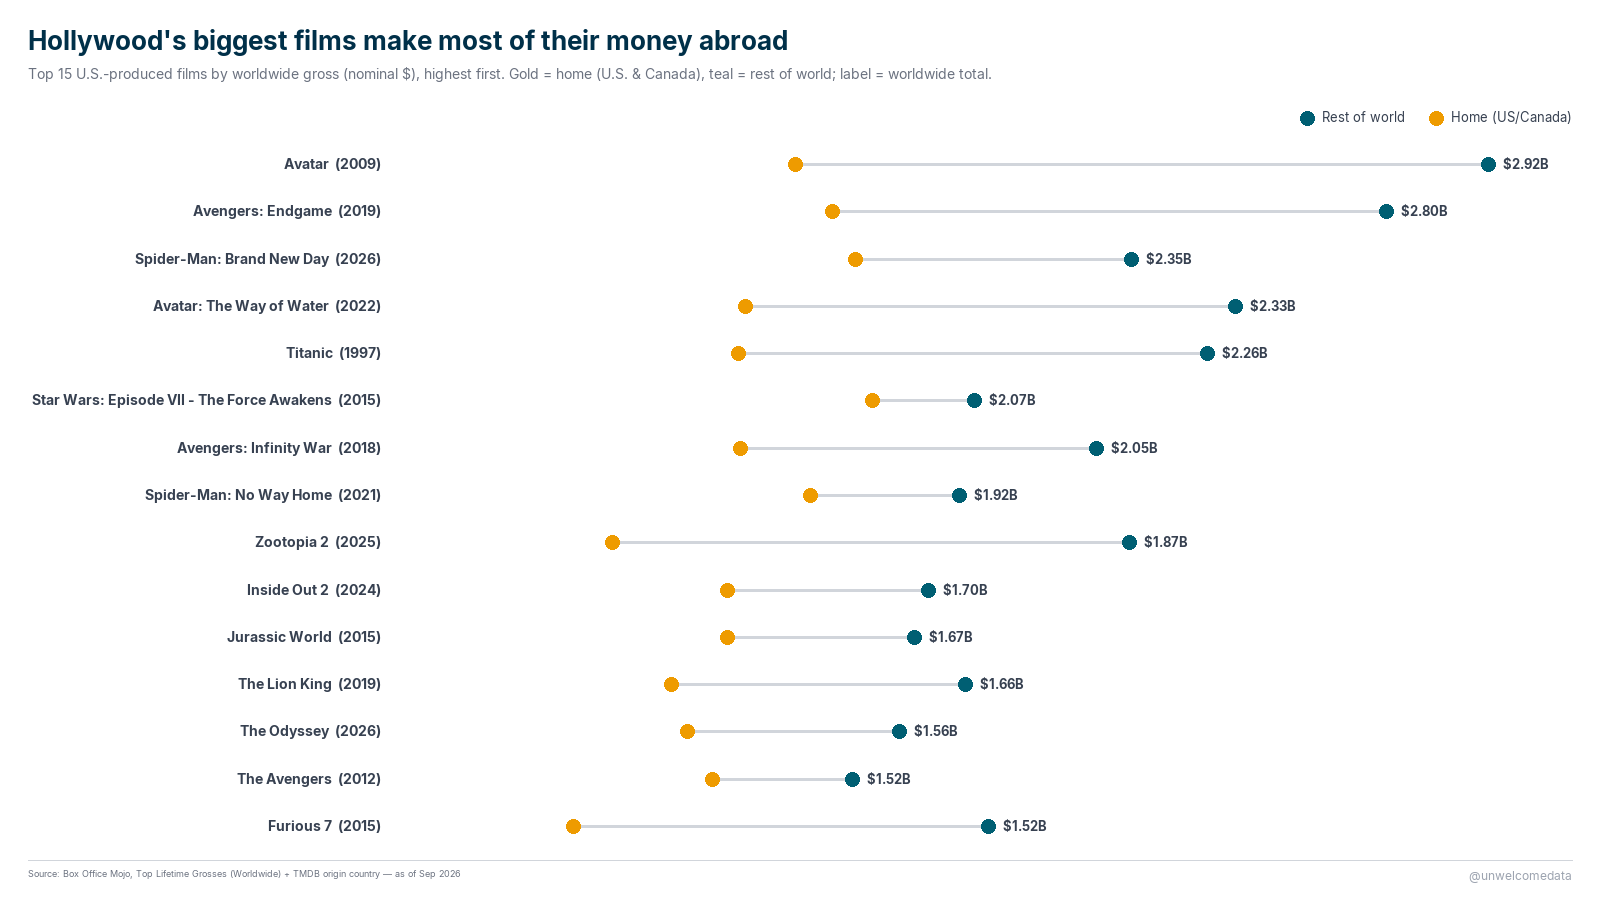
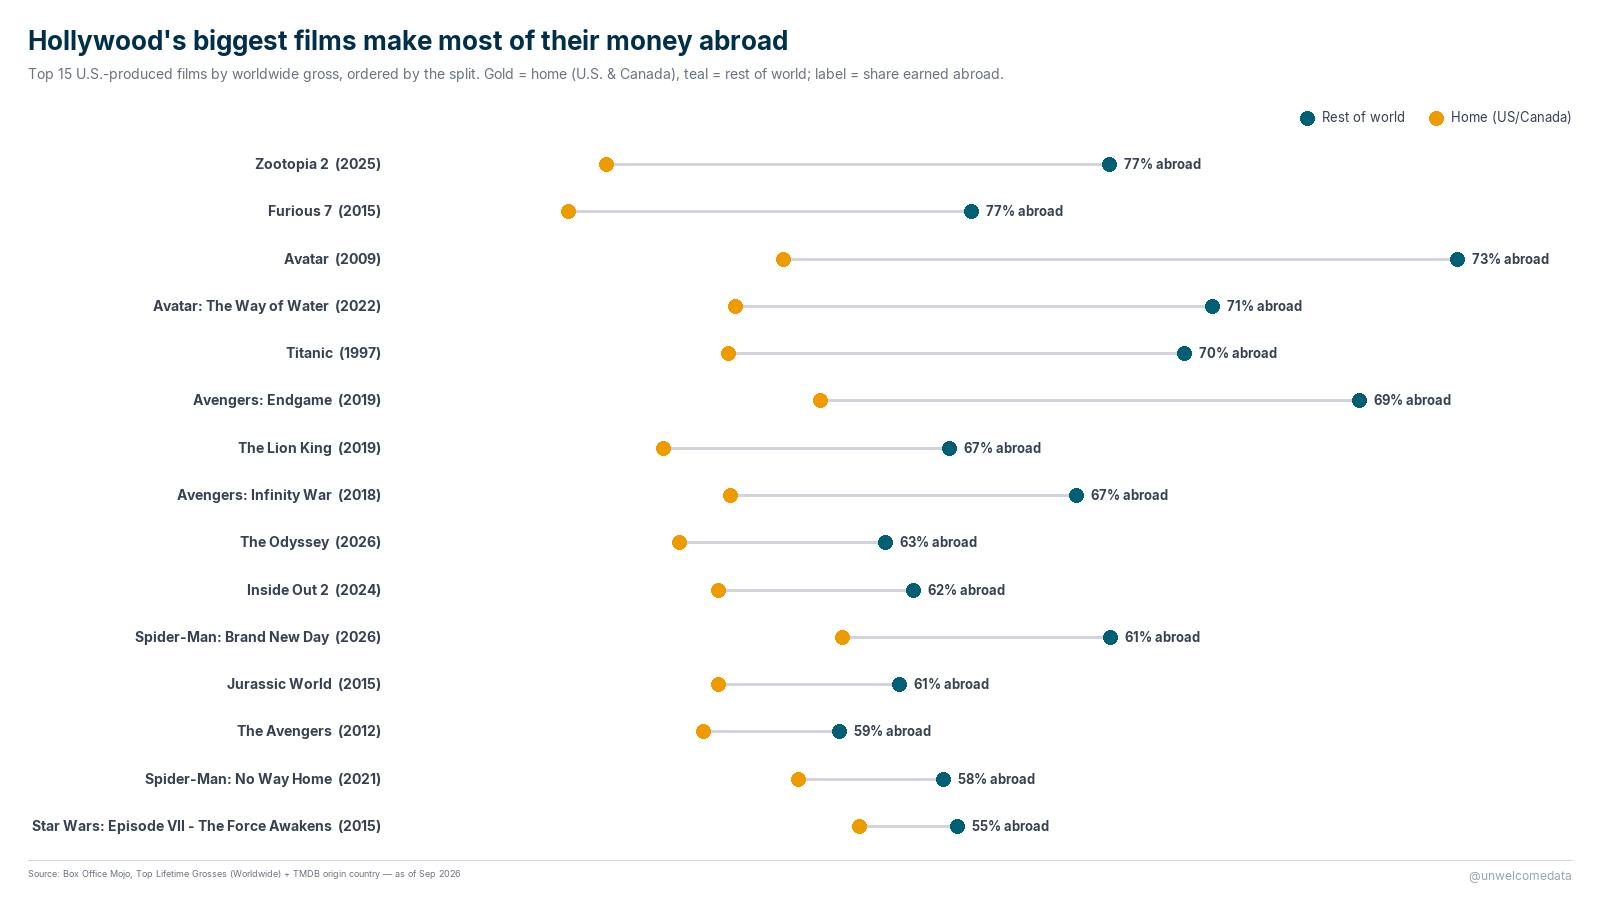
fix: order chart B by the split (share earned abroad), label the %
Chart B was sorted by worldwide gross (same as A), so it looked unsorted since the
split is the point. Now: top 15 US films by worldwide gross, ordered by foreign
share desc (Zootopia 2/Furious 7 at 77% abroad -> Force Awakens at 55%), with the
% abroad as the row label so the ordering is obvious.

diff --git a/scripts/_build_notebooks.py b/scripts/_build_notebooks.py
@@ -463,18 +463,22 @@ viz = [
        "international (rest-of-world) take dwarfs the domestic one. Gold = domestic,",
        "teal = international. Watch **Ne Zha 2** — a Chinese blockbuster with a huge",
        "international total and almost no domestic gross."),
-    code("# Restrict to US-made films so 'domestic' (US & Canada) = the film's home market.",
+    code("# US-made films (so 'home'=US/Canada is the home market); take the top 15 by",
+         "# worldwide gross, then ORDER BY the split (foreign share) so it reads sorted.",
          "ww = con.execute('''",
-         "    WITH us AS (SELECT title, release_year FROM films_genre WHERE is_us=TRUE)",
-         "    SELECT w.title, w.release_year, w.domestic_gross, w.foreign_gross, w.worldwide_gross",
-         "    FROM films_worldwide w JOIN us ON us.title=w.title AND us.release_year=w.release_year",
-         "    ORDER BY w.worldwide_gross DESC LIMIT 15''').df()",
+         "    WITH us AS (SELECT title, release_year FROM films_genre WHERE is_us=TRUE),",
+         "    top AS (SELECT w.title, w.release_year, w.domestic_gross, w.foreign_gross,",
+         "                   100.0*w.foreign_gross/w.worldwide_gross AS foreign_pct",
+         "            FROM films_worldwide w JOIN us ON us.title=w.title AND us.release_year=w.release_year",
+         "            ORDER BY w.worldwide_gross DESC LIMIT 15)",
+         "    SELECT * FROM top ORDER BY foreign_pct DESC''').df()",
          "ww['label'] = ww['title'] + '  (' + ww['release_year'].astype(str) + ')'",
+         "ww['split_label'] = ww['foreign_pct'].apply(lambda p: f'{p:.0f}% abroad')",
          "display(lollipop(",
          "    ww, category_col='label', value_col='foreign_gross', value2_col='domestic_gross',",
-         "    label_col='worldwide_gross', value_fmt=money,",
-         "    title='Hollywood films: home (US/Canada) vs abroad (top 15)',",
-         "    subtitle='US-made films only. Gold = home (US & Canada), teal = rest of world; label = worldwide total.',",
+         "    label_col='split_label', value_fmt=lambda v: v,",
+         "    title='Hollywood films: home (US/Canada) vs abroad, by split',",
+         "    subtitle='Top 15 US-made films by worldwide gross, ordered by share earned abroad. Gold = home, teal = rest of world.',",
          "    dot_color='#005F73', dot2_color='#EE9B00',",
          "    value_label='Rest of world', value2_label='Home', img_width=img_w, img_height=img_h,",
          "))"),
@@ -541,17 +545,20 @@ viz_social = [
          "    return f'${v/1e9:.2f}B' if abs(v) >= 1e9 else f'${v/1e6:.0f}M'"),
     md("## 1. Where the money comes from: overseas",
        "Top 15 by worldwide gross. Gold = domestic (US/Canada), teal = international."),
-    code("# US-made films only, so 'home' (US & Canada) is the film's actual home market.",
+    code("# US-made films; top 15 by worldwide gross, then ordered by the split (foreign share).",
          "ww = con.execute('''",
-         "    WITH us AS (SELECT title, release_year FROM films_genre WHERE is_us=TRUE)",
-         "    SELECT w.title, w.release_year, w.domestic_gross, w.foreign_gross, w.worldwide_gross",
-         "    FROM films_worldwide w JOIN us ON us.title=w.title AND us.release_year=w.release_year",
-         "    ORDER BY w.worldwide_gross DESC LIMIT 15''').df()",
+         "    WITH us AS (SELECT title, release_year FROM films_genre WHERE is_us=TRUE),",
+         "    top AS (SELECT w.title, w.release_year, w.domestic_gross, w.foreign_gross,",
+         "                   100.0*w.foreign_gross/w.worldwide_gross AS foreign_pct",
+         "            FROM films_worldwide w JOIN us ON us.title=w.title AND us.release_year=w.release_year",
+         "            ORDER BY w.worldwide_gross DESC LIMIT 15)",
+         "    SELECT * FROM top ORDER BY foreign_pct DESC''').df()",
          "ww['label'] = ww['title'] + '  (' + ww['release_year'].astype(str) + ')'",
+         "ww['split_label'] = ww['foreign_pct'].apply(lambda p: f'{p:.0f}% abroad')",
          "img2 = lollipop(ww, category_col='label', value_col='foreign_gross', value2_col='domestic_gross',",
-         "    label_col='worldwide_gross',  # ranked by worldwide total; label that so it reads as sorted",
-         "    value_fmt=money, title=\"Hollywood's biggest films make most of their money abroad\",",
-         "    subtitle='Top 15 U.S.-produced films by worldwide gross (nominal $), highest first. Gold = home (U.S. & Canada), teal = rest of world; label = worldwide total.',",
+         "    label_col='split_label', value_fmt=lambda v: v,  # sorted by split; label the foreign share",
+         "    title=\"Hollywood's biggest films make most of their money abroad\",",
+         "    subtitle='Top 15 U.S.-produced films by worldwide gross, ordered by the split. Gold = home (U.S. & Canada), teal = rest of world; label = share earned abroad.',",
          "    source='Box Office Mojo, Top Lifetime Grosses (Worldwide) + TMDB origin country — as of Sep 2026',",
          "    dot_color='#005F73', dot2_color='#EE9B00',",
          "    value_label='Rest of world', value2_label='Home (US/Canada)',",

diff --git a/scripts/make_charts.py b/scripts/make_charts.py
@@ -79,21 +79,28 @@ def main() -> None:
     # Restrict to US-produced films so "domestic" (US & Canada box office) means
     # the film's HOME market. Non-US films (e.g. Chinese blockbusters) are excluded
     # here — for them US/Canada isn't home — and analysed separately.
+    # Take the top 15 US films by worldwide gross, then ORDER BY the split
+    # (foreign share) so the chart reads from most-lopsided-abroad to most balanced.
     ww = con.execute(
         """
-        WITH us AS (SELECT title, release_year FROM films_genre WHERE is_us = TRUE)
-        SELECT w.title, w.release_year, w.domestic_gross, w.foreign_gross, w.worldwide_gross
-        FROM films_worldwide w JOIN us ON us.title=w.title AND us.release_year=w.release_year
-        ORDER BY w.worldwide_gross DESC LIMIT 15
+        WITH us AS (SELECT title, release_year FROM films_genre WHERE is_us = TRUE),
+        top AS (
+            SELECT w.title, w.release_year, w.domestic_gross, w.foreign_gross, w.worldwide_gross,
+                   100.0*w.foreign_gross/w.worldwide_gross AS foreign_pct
+            FROM films_worldwide w JOIN us ON us.title=w.title AND us.release_year=w.release_year
+            ORDER BY w.worldwide_gross DESC LIMIT 15
+        )
+        SELECT * FROM top ORDER BY foreign_pct DESC
         """
     ).df()
     ww["label"] = ww["title"] + "  (" + ww["release_year"].astype(str) + ")"
+    ww["split_label"] = ww["foreign_pct"].apply(lambda p: f"{p:.0f}% abroad")
     img2 = lollipop(
         ww, category_col="label", value_col="foreign_gross", value2_col="domestic_gross",
-        label_col="worldwide_gross",  # ranked by worldwide total; label that so it reads as sorted
-        value_fmt=money_bil,
+        label_col="split_label",  # sorted by the split; label the foreign share
+        value_fmt=lambda v: v,    # split_label is already a string
         title="Hollywood's biggest films make most of their money abroad",
-        subtitle="Top 15 U.S.-produced films by worldwide gross (nominal $), highest first. Gold = home (U.S. & Canada), teal = rest of world; label = worldwide total.",
+        subtitle="Top 15 U.S.-produced films by worldwide gross, ordered by the split. Gold = home (U.S. & Canada), teal = rest of world; label = share earned abroad.",
         source="Box Office Mojo, Top Lifetime Grosses (Worldwide) + TMDB origin country — as of Sep 2026",
         dot_color="#005F73", dot2_color="#EE9B00",
         value_label="Rest of world", value2_label="Home (US/Canada)",
